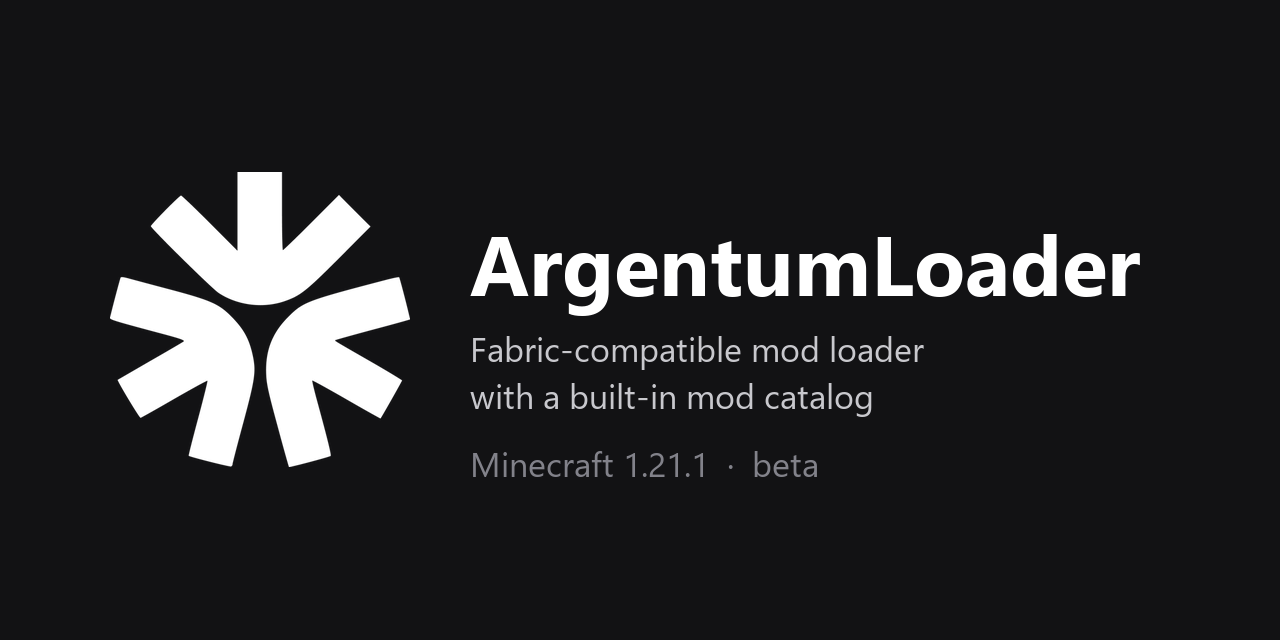
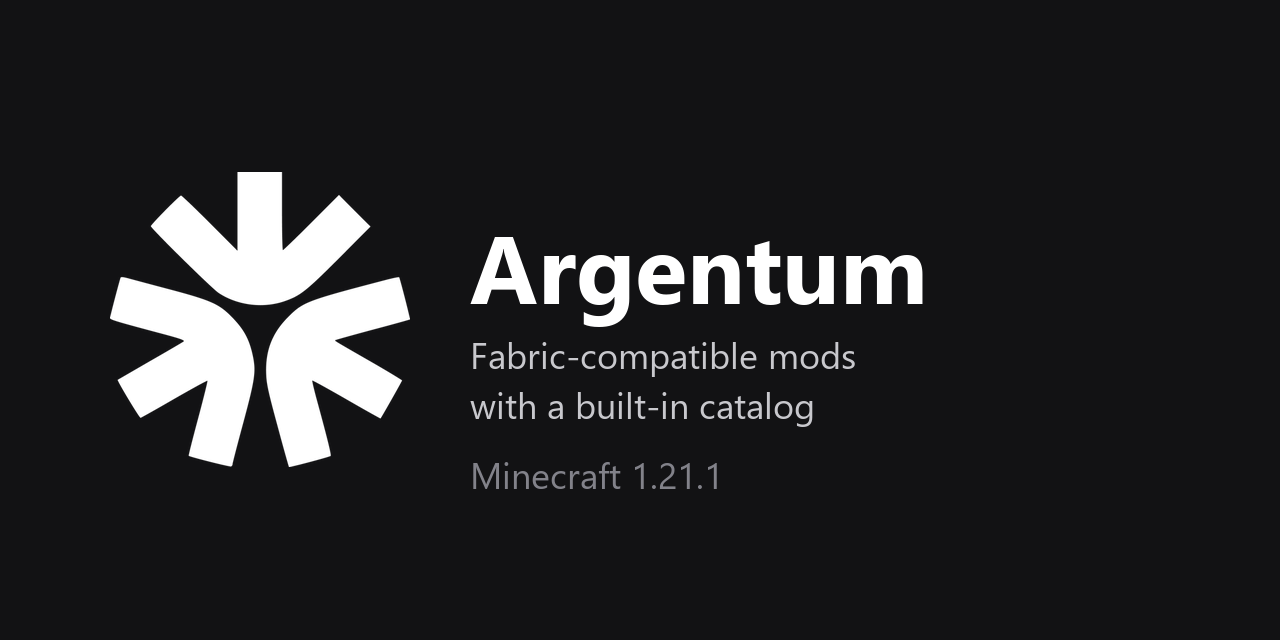
README: Argentum brand in the header and social preview

Changed region(s): [[0.3438, 0.3438, 0.9062, 0.6562], [0.375, 0.6875, 0.6562, 0.7812]]

diff --git a/README.md b/README.md
@@ -2,12 +2,12 @@
 
 <picture>
   <source media="(prefers-color-scheme: dark)" srcset="docs/assets/logo-white.png">
-  <img src="docs/assets/logo-black.png" alt="ArgentumLoader" width="140">
+  <img src="docs/assets/logo-black.png" alt="Argentum" width="140">
 </picture>
 
-# ArgentumLoader
+# Argentum
 
-**A Fabric-compatible mod loader with a built-in mod manager.**<br>
+**Fabric-compatible mods with a built-in catalog.**<br>
 Pick mods in a catalog inside the game, press **Apply changes**, and the game switches to the new mod set by itself.<br>
 A broken mod can no longer take the whole game down with it.
 
@@ -151,7 +151,7 @@ ArgentumLoader is a fork of [FabricMC/fabric-loader](https://github.com/FabricMC
 
 <picture>
   <source media="(prefers-color-scheme: dark)" srcset="docs/assets/logo-white.png">
-  <img src="docs/assets/logo-black.png" alt="ArgentumLoader" width="90">
+  <img src="docs/assets/logo-black.png" alt="Argentum" width="90">
 </picture>
 
 # Русская версия
